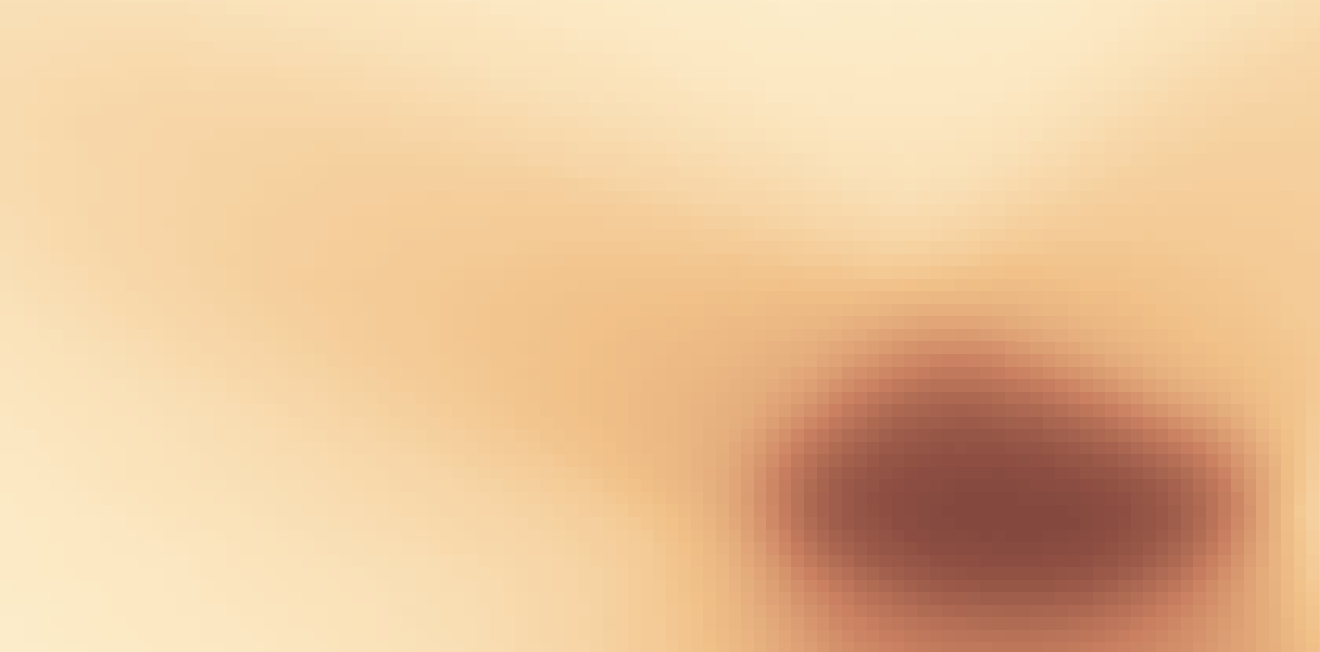
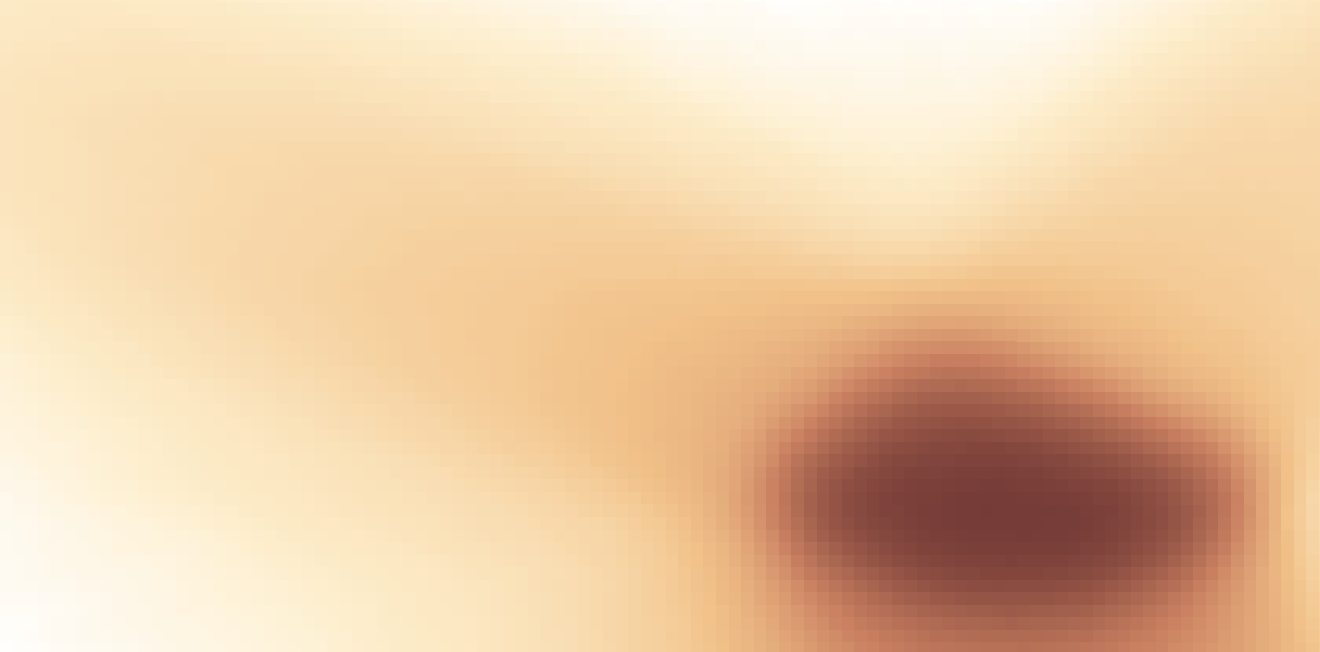
fix: ljestvica na kartici ide od ruba do ruba okvira, ne od nule
Godišnja slika u okviru kvarta bila je oprana: cijeli okvir u toploj boji, a
perjanica kao blagi prijelaz umjesto oblika. Uzrok nije bio vrh ljestvice nego
dno — u kvartu ništa nije blizu nule. Najmanje je 362 sata godišnje, što na
ljestvici od nule već daje petinu boje, pa ni najbljeđi kut nije bio blijed.

Sada se kvartovska slika rasteže između najmanje i najveće vrijednosti u
okviru. Široka slika na `/karta` ostaje na ljestvici od nule, jer njezin
obuhvat doista dopire do mjesta kamo zrak s plohe gotovo nikad ne stigne.

Da rastezanje ne bi lagalo, uz sliku stoji ljestvica s pravim rubovima
(362–7.981 h/god, odnosno 0,0004–0,097 µg/m³) i rečenica da ne počinje od
nule. Za sate je i u opisu izrijekom: i ondje gdje je najbljeđe, zrak s plohe
prijeđe nekoliko stotina sati godišnje.

Brojke se pišu na značajne znamenke, ne na fiksne decimale: donji rub
koncentracije je 0,0004 µg/m³, što bi na tri decimale ispalo „0,000” — dakle
ljestvica koja tvrdi da počinje od nule, što je upravo ono što ova ne smije.

Changed region(s): [[0.3106, 0.0, 0.9008, 0.2147], [0.0, 0.5521, 0.2485, 1.0]]

diff --git a/src/components/karepovac/karta-kartice.tsx b/src/components/karepovac/karta-kartice.tsx
@@ -42,11 +42,29 @@ const POGLEDI_ZRAKA = [
     kljuc: sloj.kljuc,
     naziv: sloj.naziv,
     opis: sloj.opis,
-    natpis: `godina 2025. — najviše ${sloj.vrh.toLocaleString("hr-HR")} ${sloj.jedinica}`,
+    natpis: `godina ${SIRA_KARTA.godina}.`,
     slucaj: 0,
     slika: sloj.slikaKvart as string | undefined,
+    ljestvica: {
+      od: sloj.kvartOd as number,
+      do: sloj.kvartDo as number,
+      jedinica: sloj.jedinica as string,
+    },
   })),
 ];
+
+/**
+ * Sati idu na cijele, koncentracije na značajne znamenke.
+ *
+ * Fiksne decimale ovdje ne rade: donji rub koncentracije je 0,0004 µg/m³, što
+ * na tri decimale ispadne „0,000” — a ljestvica koja tvrdi da počinje od nule
+ * govori upravo ono što ova ne smije.
+ */
+function poVelicini(x: number) {
+  return x >= 10
+    ? x.toLocaleString("hr-HR", { maximumFractionDigits: 0 })
+    : x.toLocaleString("hr-HR", { maximumSignificantDigits: 2 });
+}
 
 /**
  * Poveznica na isti sloj u karti, sa zapaljenim pogledom, podlogom i mjestom.
@@ -386,8 +404,31 @@ export function PogledZraka() {
                   </Mjesto>
                 </KartaDima>
               </div>
+              {"ljestvica" in pogled && (
+                <div className="mt-3 flex items-center gap-3">
+                  <span className="shrink-0 text-sm tabular-nums text-kamen-drugi">
+                    {poVelicini(pogled.ljestvica.od)}
+                  </span>
+                  <span
+                    aria-hidden="true"
+                    className="h-2.5 flex-1 rounded-full bg-[linear-gradient(90deg,#fdedc7,#fad689,#e99c42,#b7542a,#5e1b16)]"
+                  />
+                  <span className="shrink-0 text-sm tabular-nums text-kamen-drugi">
+                    {poVelicini(pogled.ljestvica.do)} {pogled.ljestvica.jedinica}
+                  </span>
+                </div>
+              )}
               <p className="mt-3 max-w-prose text-base leading-7 text-kamen-tekst">
                 {pogled.opis}
+                {"ljestvica" in pogled && (
+                  <>
+                    {" "}
+                    Ljestvica ide od najmanje do najveće vrijednosti u ovom
+                    okviru, a ne od nule — inače bi cijeli kvart bio obojen i
+                    perjanica se ne bi vidjela kao perjanica. Brojke uz nju
+                    kažu koliko su ti rubovi.
+                  </>
+                )}
               </p>
             </div>
           </div>

diff --git a/scripts/izvedi-siru-kartu.py b/scripts/izvedi-siru-kartu.py
@@ -19,6 +19,16 @@ se u istom prebacivaču okvir mijenjao između pogleda, čitatelj bi izgubio gdj
 je. Nepomična je namjerno: podatak nije toliko točan da bi zasluživao
 razgledavanje, a tko ga želi razgledati, ide na kartu.
 
+Ljestvice im nisu iste, i to namjerno. Široka ide od nule, jer njezin obuhvat
+doista dopire do mjesta kamo zrak s plohe gotovo nikad ne stigne. Kvartovska
+se rasteže između najmanje i najveće vrijednosti *u okviru*: unutar kvarta
+ništa nije blizu nule — najmanje je oko 360 sati godišnje — pa bi ljestvica od
+nule cijeli okvir obojila i perjanica se ne bi vidjela kao perjanica.
+
+Zato kvartovska slika mora uza se nositi svoje rubove, i stranica ih ispisuje:
+blijedi kraj ljestvice ovdje ne znači „ništa”, nego „i dalje 360 sati”. Bez
+toga bi rastezanje ljepše izgledalo, a govorilo neistinu.
+
 Slike se pišu u `public/`, ne u generirani modul: sjenčanje i polja su rasteri
 od nekoliko stotina kilobajta i nemaju što tražiti u snopu koji preglednik
 mora pročitati prije prvog crtanja. Iz istog razloga se i ceste crtaju u
@@ -73,7 +83,7 @@ SLOJEVI = (
     {
         "kljuc": "sati",
         "naziv": "Koliko sati godišnje",
-        "opis": "Koliko je sati godišnje točka bila u perjanici s plohe. Ne ovisi o jačini izvora, nego samo o vjetru i širenju — i zato je najpouzdanije što model daje.",
+        "opis": "Koliko je sati godišnje točka bila u perjanici s plohe. Ne ovisi o jačini izvora, nego samo o vjetru i širenju — i zato je najpouzdanije što model daje. U kvartu nijedno mjesto nije blizu nule: i ondje gdje je najbljeđe, zrak s plohe prijeđe nekoliko stotina sati godišnje.",
         "polje": "prelasci",
         "godisnje": True,
         "vrh": 8760.0,
@@ -325,18 +335,13 @@ def glavno() -> None:
         slika = sloj_polja(polje, vrh, obuhvat, tablica)
         ime = f"siri-{sloj['kljuc']}.png"
         slika.save(SLIKE / ime, optimize=True)
-        # Ista veličina u okviru kartica, za pogled na `/karepovac`.
+        # Ista veličina u okviru kartica, za pogled na `/karepovac`, ali
+        # rastegnuta između rubova koje okvir doista sadrži.
+        u_okviru = u_okvir_kvarta(polje)
+        od, do = float(u_okviru.min()), float(u_okviru.max())
+        udio = np.sqrt(np.clip((u_okviru - od) / max(do - od, 1e-12), 0, 1))
         u_kvartu = Image.fromarray(
-            tablica[
-                (
-                    np.clip(
-                        np.sqrt(np.clip(u_okvir_kvarta(polje), 0, None) / max(vrh, 1e-12)),
-                        0, 1,
-                    )
-                    * 255
-                ).astype(np.uint8)
-            ],
-            "RGBA",
+            tablica[(udio * 255).astype(np.uint8)], "RGBA"
         )
         ime_kvart = f"kvart-{sloj['kljuc']}.png"
         u_kvartu.save(SLIKE / ime_kvart, optimize=True)
@@ -349,6 +354,8 @@ def glavno() -> None:
                 "opis": sloj["opis"],
                 "slika": f"/karepovac/{ime}",
                 "slikaKvart": f"/karepovac/{ime_kvart}",
+                "kvartOd": round(od, 4),
+                "kvartDo": round(do, 4),
                 "jedinica": sloj["jedinica"],
                 "vrh": round(vrh, 4),
                 "najviseIzvanPlohe": round(float(izvan.max()), 4),
@@ -356,8 +363,8 @@ def glavno() -> None:
             }
         )
         logger.info(
-            "%s: vrh %.4g %s, izvan plohe najviše %.4g (%.0f kB)",
-            sloj["kljuc"], vrh, sloj["jedinica"], izvan.max(),
+            "%s: široko 0–%.4g %s; u kvartu %.4g–%.4g (%.0f kB)",
+            sloj["kljuc"], vrh, sloj["jedinica"], od, do,
             (SLIKE / ime).stat().st_size / 1024,
         )
 
